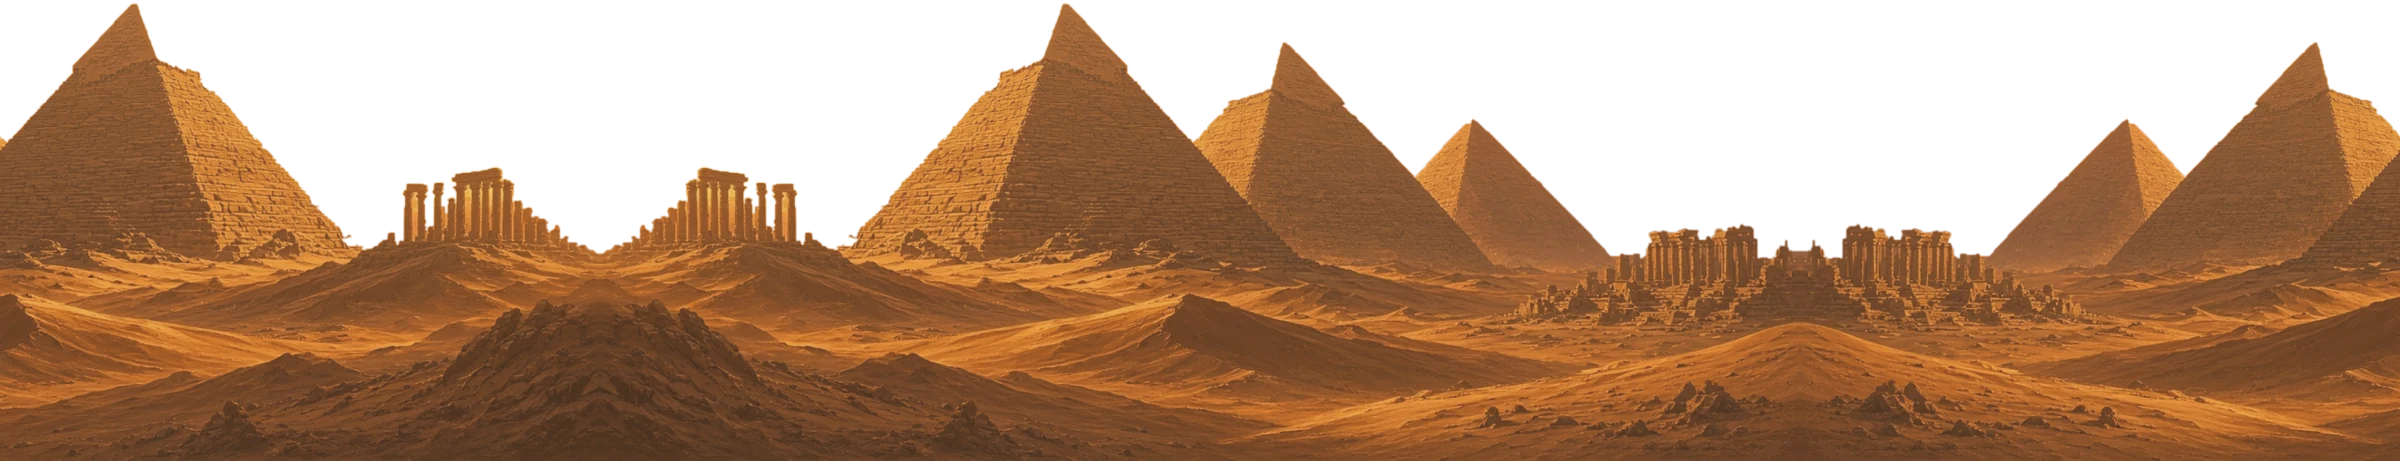
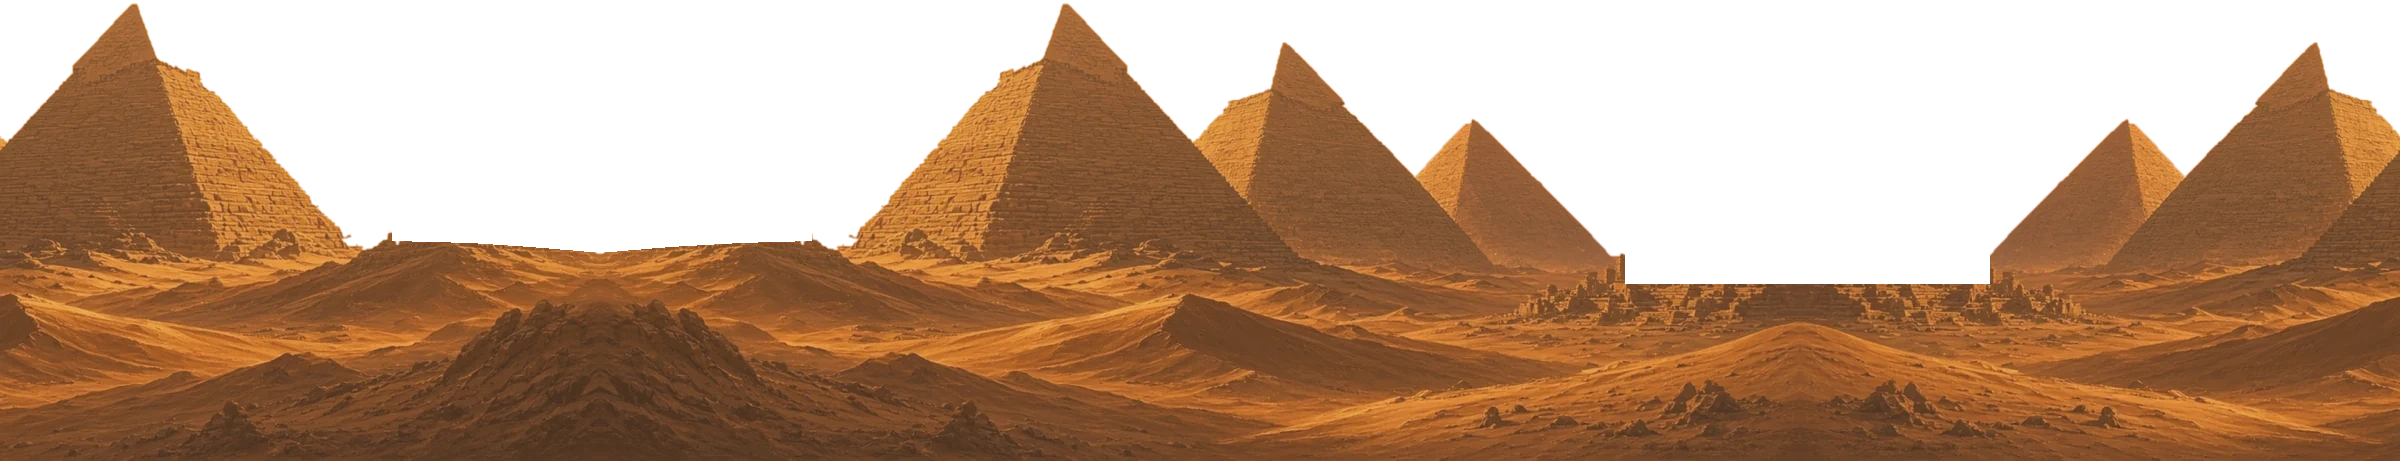
v14: solid far colonnade, caravan drift, visible gusts and heat shimmer, stronger idle life, urn depth tolerance, single version.js

Changed region(s): [[0.1562, 0.3644, 0.3438, 0.5466], [0.6562, 0.4859, 0.8438, 0.6377]]

diff --git a/index.html b/index.html
@@ -22,6 +22,7 @@
 <meta name="theme-color" content="#0d0705"><link rel="manifest" href="manifest.json"><link rel="icon" href="favicon.ico" sizes="any"><link rel="icon" type="image/png" sizes="32x32" href="icons/favicon-32.png"><link rel="apple-touch-icon" href="icons/apple-touch-icon.png"></head>
 <body>
 <canvas id="game"></canvas>
+<script src="version.js"></script>
 <script>
 (() => {
   'use strict';
@@ -894,7 +895,7 @@
   //  behind  dragonflies        count 6 (max 12), size 1, yRange [0.46,0.72]
   //  behind  footstepDust       size 1, alpha 1                 (default on: a puff per foot plant / landing)
   //  behind  impactShock        size 1                          (default on: ring + dust where a heavy blow lands)
-  //  (none)  wind               dir -1 (right to left), strength 1, gustEvery [2.5,5] s (false = no gusts; the first gust arrives ~2.4 s after a start), gustStrength 1
+  //  (none)  wind               dir -1 (right to left), strength 1, gustEvery [7,11] s after each 3.4 s gust (false = no gusts; the first gust arrives ~2.4 s after a start), gustStrength 1
   //  (none)  idleLife           breath 1, weaponCheck 1, capeWind 1   (default on: actors are never statues)
   // Layers: sky = painted sky band; far = behind the haze; mid = colonnade depth; floor = on the paving;
   // behind = play depth, behind every fighter; front = foreground-safe (the engine keeps it off fighters and the HUD).
@@ -902,7 +903,7 @@
   // =========================================================================
   const WORLD_LEN = 3600;
   const COLONNADE_AMBIENT = {
-    wind: { dir: -1, strength: 1, gustEvery: [2.5, 5] },
+    wind: { dir: -1, strength: 1, gustEvery: [7, 11] },
     sandDrift: { count: 64, fg: 10 },
     dustDevils: { every: [45, 85], first: 6 },
     heatShimmer: { horizon: true, braziers: true, strength: 1 },
@@ -933,7 +934,7 @@
       lockX: 1260,                                                  // (was 1680: every later trigger moves with zone I by the same 420, spacing unchanged)
       ambient: {                                                    // open dunes: a harder wind, more sand, dust devils, a caravan, bare pillars
         ...COLONNADE_AMBIENT,
-        wind: { dir: -1, strength: 1.5, gustEvery: [2.5, 5.5], gustStrength: 1.4 },
+        wind: { dir: -1, strength: 1.5, gustEvery: [7, 10.5], gustStrength: 1.4 },
         sandDrift: { count: 92, fg: 14 },
         dustDevils: { every: [18, 36], first: 4, size: 1.15 },
         heatShimmer: { horizon: true, braziers: true, strength: 1.3 },
@@ -956,7 +957,7 @@
       boss: true,                                                  // finale: skip LEVEL CLEAR and go to the victory screen
       ambient: {                                                    // boss arena: still air, vultures gathering, a quicker vortex, rising smoke and embers
         ...COLONNADE_AMBIENT,
-        wind: { dir: -1, strength: 0.8, gustEvery: [3, 7], gustStrength: 1.2 },
+        wind: { dir: -1, strength: 0.8, gustEvery: [7, 11], gustStrength: 1.2 },
         sandDrift: { count: 40, fg: 8 },
         dustDevils: false,
         caravans: false,
@@ -1672,7 +1673,10 @@
         for (const u of urns) {
           if (u.broken) continue;
           const dx = (u.x - hx) * player.facing;
-          if (dx >= -20 && dx <= reach && Math.abs(u.z - player.z) < 42) {
+          // v14: depth test follows what the eye sees, not the enemy rule. The urn is ~60 px tall and the blade passes ~70 px above the hero's feet,
+          // so a swing from the lane BELOW (hero nearer the camera, larger z) still crosses the pot's body up to ~84 px of depth away; from behind it is 52.
+          const dzs = player.z - u.z;
+          if (dx >= -28 && dx <= reach + 8 && dzs > -52 && dzs < 84) {
             u.broken = true; u.brokeT = worldTime;
             AudioFX.shatter();
             spawnParticles(u.x, u.z - 22, 14, '#c77c40', 190, 4.5);
@@ -1966,7 +1970,49 @@
   const SKY_PAR = 0.08;
   const SUN = { x: 250, y: 90 };
   const FAR_PAR = 0.12;
-  // far vista geometry: uniform scale (never stretched), wide enough for the whole camera range at FAR_PAR
+  // v14: the horizon ruins are NOT painted into bg_far.webp any more (the painted colonnades were pale, blurry and
+  // read as ghosts). bg_far now holds sky/pyramids/dunes only; the far colonnades are opaque pillar sprites (the same
+  // art as the mid-ground pillar) composited into ONE offscreen copy of the picture, so the heat-haze strips ripple
+  // pyramids and pillars together. Positions are in bg_far pixel coordinates (2400 x 461).
+  const FAR_RUINS = (function () {
+    const out = [], ridge = (x, a) => { for (let i = 1; i < a.length; i++) if (x <= a[i][0]) return a[i - 1][1] + (a[i][1] - a[i - 1][1]) * (x - a[i - 1][0]) / (a[i][0] - a[i - 1][0]); return a[a.length - 1][1]; };
+    const rA = [[392, 241], [470, 243], [530, 247], [602, 253]];
+    // [x, height, fraction broken off the top]; one group per ruined colonnade, mirrored about the picture's seams
+    const A = [[408, 62, 0], [426, 72, 0], [446, 88, 0], [464, 94, 0], [482, 96, 0], [500, 92, 0], [518, 84, 0], [534, 62, .30], [549, 50, .38], [563, 38, .5], [575, 28, .5]];
+    const B = [[1650, 36, .35], [1666, 50, 0], [1684, 60, 0], [1702, 66, 0], [1720, 70, 0], [1738, 66, 0], [1756, 56, .2], [1774, 66, 0], [1790, 74, 0]];
+    A.forEach(c => { out.push({ x: c[0], y: ridge(c[0], rA), h: c[1], cut: c[2] }); const x2 = 1200 - c[0]; out.push({ x: x2, y: ridge(1200 - x2, rA), h: c[1], cut: c[2] }); });
+    B.forEach(c => { out.push({ x: c[0], y: 284, h: c[1], cut: c[2] }); out.push({ x: 3600 - c[0], y: 284, h: c[1], cut: c[2] }); });
+    return out;
+  })();
+  // stone beams over the intact runs: [x0, x1, y of the beam top]; the second of each pair is the mirror image
+  const FAR_LINTELS = [[459, 505, 243 - 95 - 3], [1200 - 505, 1200 - 459, 243 - 95 - 3], [1697, 1743, 284 - 69 - 3], [3600 - 1743, 3600 - 1697, 284 - 69 - 3]];
+  let farComposite = null;
+  function ensureFarComposite() {
+    if (farComposite || !IMG.pyramids || !IMG.pyramids.naturalWidth || !IMG.pillar || !IMG.pillar.naturalWidth) return;
+    const src = IMG.pyramids, iw = src.naturalWidth, ih = src.naturalHeight;
+    const cv = makeCanvas(iw, ih), c = cv.getContext('2d');
+    c.drawImage(src, 0, 0);
+    c.imageSmoothingEnabled = true; c.imageSmoothingQuality = 'high';
+    const pil = IMG.pillar, sw = 56, sh = Math.round(sw * pil.naturalHeight / pil.naturalWidth);   // two-step downscale keeps the small columns crisp
+    const small = makeCanvas(sw, sh); const sc2 = small.getContext('2d'); sc2.imageSmoothingEnabled = true; sc2.imageSmoothingQuality = 'high'; sc2.drawImage(pil, 0, 0, sw, sh);
+    // read as solid shaded stone against the bright sky: darker body + cylindrical shading (shadow side left, warm lit edge right)
+    sc2.globalCompositeOperation = 'source-atop';
+    sc2.fillStyle = 'rgba(48,20,6,0.52)'; sc2.fillRect(0, 0, sw, sh);
+    const sg = sc2.createLinearGradient(0, 0, sw, 0); sg.addColorStop(0, 'rgba(20,6,0,0.70)'); sg.addColorStop(0.55, 'rgba(24,8,2,0.08)'); sg.addColorStop(1, 'rgba(255,196,120,0.18)');
+    sc2.fillStyle = sg; sc2.fillRect(0, 0, sw, sh);
+    sc2.globalCompositeOperation = 'source-over';
+    const ruins = FAR_RUINS.slice().sort((a, b) => a.y - b.y);
+    const col = r => { const w = r.h * 0.23, cutPx = r.cut * sh; c.drawImage(small, 0, cutPx, sw, sh - cutPx, Math.round(r.x - w / 2), r.y - r.h * (1 - r.cut), w, r.h * (1 - r.cut)); };
+    // contact shadows first, then columns, then beams
+    c.fillStyle = 'rgba(40,18,6,0.35)'; ruins.forEach(r => c.fillRect(Math.round(r.x - r.h * 0.17), r.y - 1, r.h * 0.34, 3));
+    ruins.forEach(col);
+    FAR_LINTELS.forEach(L => {
+      const g = c.createLinearGradient(0, L[2], 0, L[2] + 6); g.addColorStop(0, '#8a5326'); g.addColorStop(0.5, '#5e3516'); g.addColorStop(1, '#35200c');
+      c.fillStyle = g; c.fillRect(L[0], L[2], L[1] - L[0], 6);
+    });
+    farComposite = cv; cv.naturalWidth = iw; cv.naturalHeight = ih;
+    IMG.pyramids = cv;
+  }
   function farGeom() {
     const im = IMG.pyramids, asp = im.naturalWidth / im.naturalHeight;
     const camMax = Math.max(0, WORLD_LEN - W), travel = FAR_PAR * camMax;
@@ -1977,6 +2023,7 @@
   const HORIZ = { amp: 0, y0: 0, hb: 44 };   // horizon heat-haze state, set by the heatShimmer module each frame
   function drawBackground() {
     const skyH = LANE_TOP + 12;
+    ensureFarComposite();
 
     // 1. Painted fire-vortex sky: ONE cover-fit image (never tiled), parallax 0.08. It is scaled so that the
     //    whole camera range (0 .. WORLD_LEN-W) still lands inside the picture, so no edge or repeat can show.
@@ -2024,7 +2071,7 @@
         for (let r = 0; r < HBd; r += spd) {
           const h = Math.min(spd, HBd - r), y = (hyd + r) / fy, k = r / HBd;
           if (y + h / fy <= fg.y || y >= fg.y + fg.h) continue;
-          const dx = (Math.sin(t * 2.0 + y * 0.30) * 0.7 + Math.sin(t * 3.6 - y * 0.55) * 0.3) * (0.30 + 0.70 * k) * 2.2 * HORIZ.amp;
+          const dx = (Math.sin(t * 5.2 + y * 0.26) * 0.7 + Math.sin(t * 8.4 - y * 0.47) * 0.3) * (0.45 + 0.55 * k) * 6.0 * HORIZ.amp;   // v14: ~+-6 px at 1x, 5 Hz-ish: reads as heat on a phone
           const sy = (y - fg.y) / fg.h * ih, sh = (h / fy) / fg.h * ih;
           ctx.drawImage(IMG.pyramids, 0, sy, iw, sh, fg.x + Math.round(dx * fx) / fx, y, fg.w, h / fy);
         }
@@ -2180,7 +2227,7 @@
     g.addColorStop(0, 'rgba(255, 190, 120, 0)'); g.addColorStop(1, 'rgba(255, 175, 100, 0.26)');
     GRAD.haze2 = g;
     g = ctx.createLinearGradient(0, LANE_TOP - 70, 0, LANE_TOP + 32);
-    g.addColorStop(0, 'rgba(255, 165, 65, 0)'); g.addColorStop(0.55, 'rgba(255, 140, 45, 0.20)'); g.addColorStop(1, 'rgba(255, 110, 30, 0)');
+    g.addColorStop(0, 'rgba(255, 165, 65, 0)'); g.addColorStop(0.55, 'rgba(255, 140, 45, 0.13)'); g.addColorStop(1, 'rgba(255, 110, 30, 0)');
     GRAD.horizon = g;
     g = ctx.createLinearGradient(0, LANE_TOP + 10, 0, LANE_TOP + 100);
     g.addColorStop(0, 'rgba(255, 196, 130, 0.12)'); g.addColorStop(1, 'rgba(255, 196, 130, 0)');
@@ -2541,12 +2588,12 @@
 
   // ---------------------------------------------------------------- AIR
   registerAmbient('wind', {                      // field: wind speed + gusts every [a,b] seconds; read by drift, cloth, smoke, cape
-    order: 0, defaults: { dir: -1, strength: 1, gustEvery: [2.5, 5], gustStrength: 1 },
-    start(inst) { inst.d = inst.d || {}; const d = inst.d; d.gust = 0; d.gustT = 2.4; d.age = 0; d.on = false; },
+    order: 0, defaults: { dir: -1, strength: 1, gustEvery: [7, 11], gustStrength: 1 },
+    start(inst) { inst.d = inst.d || {}; const d = inst.d; d.gust = 0; d.gustT = 4; d.age = 0; d.on = false; d.S = []; d.n = 0; },
     stop() { ENV.ws = 0; ENV.gust = 0; },
     update(inst, dt) {
       const d = inst.d, p = inst.p;
-      if (!d.on) { if (Array.isArray(p.gustEvery) && (d.gustT -= dt) <= 0) { d.on = true; d.age = 0; } }
+      if (!d.on) { if (Array.isArray(p.gustEvery) && (d.gustT -= dt) <= 0) { d.on = true; d.age = 0; d.n++; windGustBurst(d); } }
       else {
         d.age += dt; const u = d.age / 3.4;                          // 3.4 s swell
         d.gust = u >= 1 ? 0 : Math.pow(Math.sin(Math.PI * u), 2);
@@ -2554,8 +2601,42 @@
       }
       ENV.dir = p.dir; ENV.gust = d.gust * p.gustStrength * inst.k;
       ENV.ws = p.dir * (38 + 230 * d.gust * p.gustStrength) * p.strength * inst.k;
+      ENV.gustN = d.n;
+    },
+    // gustEvery is the pause AFTER a 3.4 s gust, so onset-to-onset = 3.4 + [7,11] = 10.4-14.4 s.
+    // v14: a gust is a VISIBLE event. The old streaks were sand-coloured on sand-coloured floor and moved with the breeze, so a gust
+    // read as nothing. Now every gust (on a 10-14 s timer, not by chance) launches a burst of long, fast streaks - bright dust and dark
+    // grit, so they show on both sky and floor - across the whole screen in the wind direction, with a faint dust veil under them.
+    draw: {
+      front(inst) {
+        const d = inst.d, p = inst.p; if (!d.on || !d.S.length) return;
+        const g = ENV.gust, a0 = d.age, dir = p.dir < 0 ? -1 : 1, K = inst.k;
+        ctx.save();
+        ctx.globalAlpha = Math.min(0.22, 0.20 * g) * K;
+        const vg = ctx.createLinearGradient(0, LANE_TOP - 90, 0, LANE_TOP + 50); vg.addColorStop(0, 'rgba(232,172,104,0)'); vg.addColorStop(1, 'rgb(232,172,104)');
+        ctx.fillStyle = vg; ctx.fillRect(0, LANE_TOP - 90, W, 140);
+        ctx.fillStyle = 'rgb(232, 172, 104)'; ctx.fillRect(0, LANE_TOP + 50, W, H - LANE_TOP - 50);                                       // dust veil
+        for (let i = 0; i < d.S.length; i++) {
+          const q = d.S[i], u = a0 - q.t0; if (u < 0) continue;
+          const x = dir < 0 ? W + 80 - q.sp * u : -80 + q.sp * u; if (x < -q.len - 90 || x > W + q.len + 90) continue;
+          const y = q.y + Math.sin(a0 * 2.4 + q.ph) * 3, e = Math.min(1, Math.max(0, g * 2.2));
+          const xs = dir < 0 ? x : x - q.len;
+          ctx.globalAlpha = q.a * e * K; ctx.fillStyle = q.dark ? 'rgb(96, 52, 22)' : 'rgb(255, 236, 196)';
+          ctx.fillRect(xs, y, q.len, q.th);
+          if (!q.dark) { ctx.globalAlpha = Math.min(1, q.a * 1.35) * e * K; ctx.fillRect(dir < 0 ? xs : xs + q.len * 0.55, y, q.len * 0.45, q.th); }
+        }
+        ctx.restore();
+      }
     }
   });
+  function windGustBurst(d) {
+    const n = Math.round(78 * (QUALITY.particleMul || 1)); d.S.length = 0;
+    const y0 = LANE_TOP - 64, y1 = H - 6;
+    for (let i = 0; i < n; i++) {
+      const dark = Math.random() < 0.34, ph = Math.random();
+      d.S.push({ t0: Math.random() * 2.1, y: y0 + Math.random() * (y1 - y0), len: 70 + Math.random() * 190, sp: 1050 + Math.random() * 850, th: 1.3 + Math.random() * 2.1, a: dark ? 0.30 + 0.25 * ph : 0.55 + 0.35 * ph, dark, ph: Math.random() * 6.28 });
+    }
+  }
 
   registerAmbient('sandDrift', {                 // wind-blown sand streaks (behind fighters) + a few faint foreground streaks
     order: 20, defaults: { count: 64, fg: 10, alpha: 1 },
@@ -2663,10 +2744,10 @@
           const sx = slot * 60 * fx; slot++;
           c.globalCompositeOperation = 'copy';
           c.drawImage(canvas, Math.round((bx - BW / 2) * fx), Math.round(top * fy), Math.round(BW * fx), Math.round(BB * fy), sx, sy, Math.round(BW * fx), Math.round(BB * fy));
-          for (let y = top; y < bot; y += 8) {
+          for (let y = top; y < bot; y += 4) {      // v14: 4 px strips with a slow phase gradient: adjacent strips differ by < 1 px, so the pillar behind a flame is no longer cut into bands
             const k = (y - top) / (bot - top), wv = 14 + 14 * k;
-            const dx = Math.sin(t * 6.2 - y * 0.24 + i * 1.9) * 2.8 * (0.35 + 0.65 * k) * amp;
-            ctx.drawImage(S, sx + (BW / 2 - wv) * fx, sy + (y - top) * fy, 2 * wv * fx, 8 * fy, bx - wv + dx, y, 2 * wv, 8);
+            const dx = Math.sin(t * 6.2 - y * 0.10 + i * 1.9) * 2.3 * (0.35 + 0.65 * k) * amp;
+            ctx.drawImage(S, sx + (BW / 2 - wv) * fx, sy + (y - top) * fy, 2 * wv * fx, 4 * fy, bx - wv + dx, y, 2 * wv, 4);
           }
         }
       }
@@ -2853,16 +2934,18 @@
     ctx.beginPath(); ctx.moveTo(x + dir * 0.35 * s, y); ctx.lineTo(x + dir * 0.28 * s, y - 2.0 * s); ctx.stroke();   // staff
   }
   registerAmbient('caravans', {                  // a camel caravan and a lone walker crossing the horizon, never interacting
-    order: 20, defaults: { speed: 1, lone: true, start: 800, loneStart: 760 },
-    start(inst) { const d = inst.d || (inst.d = {}); d.s = worldTime * 6 * inst.p.speed; d.s2 = worldTime * 4.5 * inst.p.speed; },
-    update(inst, dt) { const d = inst.d, sp = inst.p.speed; d.s += 6 * sp * dt; d.s2 += 4.5 * sp * dt; },
+    order: 20, defaults: { speed: 1, lone: true, start: 800, loneStart: 760, drift: 15 },
+    // v14: the crossing ran at 6 px/s (a camel body-length in 4 s): it moved, but too slowly to read as movement on a phone.
+    // drift is now the caravan's speed in logical px/s (right -> left); the lone walker goes the other way at 0.75 of it.
+    start(inst) { const d = inst.d || (inst.d = {}); d.s = worldTime * inst.p.drift * inst.p.speed; d.s2 = worldTime * inst.p.drift * 0.75 * inst.p.speed; },
+    update(inst, dt) { const d = inst.d, sp = inst.p.speed, dr = inst.p.drift; d.s += dr * sp * dt; d.s2 += dr * 0.75 * sp * dt; },
     draw: {
       far(inst) {
         const d = inst.d, p = inst.p, t = worldTime, hy = LANE_TOP - 13, s = Math.max(7, H * 0.019);
         ctx.lineCap = 'round'; ctx.fillStyle = ctx.strokeStyle = 'rgb(84, 38, 18)'; ctx.globalAlpha = 0.88 * inst.k;
-        const cyc = W + 1100, cx = ((p.start - d.s - camX * FAR_PAR) % cyc + cyc) % cyc - 300;
+        const cyc = W + 520, cx = ((p.start - d.s - camX * FAR_PAR) % cyc + cyc) % cyc - 300;
         if (cx > -8 * s && cx < W + 4 * s) {
-          const ph = t * 2.6 * p.speed;
+          const ph = t * 3.4 * p.speed;
           drawCamel(cx, hy, s, ph, true);
           drawCamel(cx + 2.5 * s, hy, s * 0.95, ph + 1.3, false);
           drawCamel(cx + 5.0 * s, hy, s * 0.9, ph + 2.4, true);
@@ -2907,7 +2990,7 @@
     },
     draw: {
       mid(inst) {
-        const p = inst.p, T = AFX.banners.tex, N = 12, t = worldTime, g = ENV.gust, ev = Math.max(1, Math.round(p.every)), ph = 262;
+        const p = inst.p, T = AFX.banners.tex, N = 22, t = worldTime, g = ENV.gust, ev = Math.max(1, Math.round(p.every)), ph = 262;
         ctx.globalAlpha = inst.k;
         for (let n = 0; n < PILL.n; n++) {
           if (((PILL.i[n] % ev) + ev) % ev !== p.phase) continue;
@@ -2916,9 +2999,13 @@
             const f0 = j / N, f = (j + 0.5) / N;
             const sway = p.sway * Math.pow(f, 1.2) * (Math.sin(t * 2.6 + f * 3.8 + seed * 1.7) * (4.2 + 2.6 * g)
                        + Math.sin(t * 5.6 + f * 7 + seed) * 1.4 * (0.5 + g) + ENV.dir * (2.5 + 5 * g));
-            const sx0 = cx - w / 2 + sway, sy0 = top + f0 * h, sh0 = h / N + 0.7;
-            ctx.drawImage(T, 0, f0 * T.height, T.width, T.height / N + 1, sx0, sy0, w, sh0);
-            const fold = Math.sin(t * 3.4 - f * 8.5 + seed * 2.3) * (0.7 + 0.3 * g);   // cloth fold travelling down the banner
+            // v14: a real travelling wave down the cloth (about 1.4 waves over its length, +-4 px at rest, more in a gust), anchored at the rod,
+            // with the cloth narrowing a little on the crest of each fold like a flag
+            const wave = Math.sin(t * 3.1 - f * 8.8 + seed * 2.1), wv = (0.3 + 0.7 * Math.pow(f, 0.7)) * (4.2 + 3.2 * g) * wave * p.sway;
+            const ww = w * (1 - 0.05 * Math.abs(wave) * f);
+            const sx0 = cx - ww / 2 + sway + wv, sy0 = top + f0 * h, sh0 = h / N + 0.7;
+            ctx.drawImage(T, 0, f0 * T.height, T.width, T.height / N + 1, sx0, sy0, ww, sh0);
+            const fold = wave * (0.75 + 0.25 * g);   // cloth fold travelling down the banner
             ctx.fillStyle = fold > 0 ? 'rgb(255, 196, 126)' : 'rgb(24, 6, 2)';
             ctx.globalAlpha = Math.abs(fold) * (fold > 0 ? 0.20 : 0.30) * inst.k; ctx.fillRect(sx0, sy0, w, sh0);
             ctx.globalAlpha = inst.k;
@@ -3329,21 +3416,21 @@
     const t = worldTime + seed * 3.7, K = IDLE_FX.k;
     const s = Math.sin(t * 1.14 + seed);                          // weight shift, ~5.5 s
     const bs = Math.sin(t * 2.1);                                  // breathing, ~3 s per breath
-    let br = 0.034 * bs * K, rot = 0.022 * s * K;
+    let br = 0.078 * bs * K, rot = 0.032 * s * K;      // v14: breathing 0.034 -> 0.078 (chest rises ~4 px), sway 0.022 -> 0.032
     const u = (t + seed * 5.3) % 8.5;                              // weapon check every 8.5 s
     if (u < 0.9) { const e = Math.sin(Math.PI * u / 0.9) * IDLE_FX.check; rot -= 0.07 * e; br += 0.014 * e; }
-    IDLE_O.br = br; IDLE_O.rot = rot; IDLE_O.hx = 2.2 * s * K; IDLE_O.dy = -1.6 * bs * K; IDLE_O.cape = isMz && IDLE_FX.cape > 0.004; IDLE_O.cs = IDLE_FX.cape; IDLE_O.wd = facing >= 0 ? 1 : -1;
+    IDLE_O.br = br; IDLE_O.rot = rot; IDLE_O.hx = 3.2 * s * K; IDLE_O.dy = -2.8 * bs * K; IDLE_O.cape = isMz && IDLE_FX.cape > 0.004; IDLE_O.cs = IDLE_FX.cape; IDLE_O.wd = facing >= 0 ? 1 : -1;
     return IDLE_O;
   }
   const CAPE = { x1: 0.35, y0: 0.36, y1: 0.95, rows: 14 };
   function capeRows(img, sx, sy, sw, sh, dx, dy, dw, dh, I, upper) {
     const yc = 0.5, rows = CAPE.rows, rh = (CAPE.y1 - CAPE.y0) / rows, t = worldTime, g = ENV.gust;
-    const A = dw * 0.12 * I.cs;
+    const A = dw * 0.17 * I.cs;      // v14: 0.12 -> 0.17 so the cape edge visibly moves while standing
     for (let j = 0; j < rows; j++) {
       const f0 = CAPE.y0 + j * rh;
       if (upper ? f0 >= yc : f0 < yc) continue;
       const k = Math.pow((f0 + rh * 0.5 - CAPE.y0) / (CAPE.y1 - CAPE.y0), 1.4);
-      const d = A * k * (0.55 * Math.sin(t * 1.9 - f0 * 9) + 0.25 * Math.sin(t * 3.4 - f0 * 15) + I.wd * (0.45 + 0.9 * g));
+      const d = A * k * (0.62 * Math.sin(t * 2.5 - f0 * 9) + 0.30 * Math.sin(t * 4.2 - f0 * 15) + I.wd * (0.45 + 0.9 * g));
       ctx.drawImage(img, sx, sy + f0 * sh, sw * CAPE.x1, sh * rh + 1, dx - d, dy + f0 * dh, dw * CAPE.x1 + d, dh * rh + 0.6);
     }
   }
@@ -3353,7 +3440,7 @@
     ctx.drawImage(base, sx, sy + ys, sw, sh - ys, dx, dy + yd, dw, dh - yd);      // planted legs
     if (cape) capeRows(img, sx, sy, sw, sh, dx, dy, dw, dh, I, false);
     ctx.save();
-    ctx.translate(I.hx, dy + yd + I.dy); ctx.rotate(I.rot); ctx.scale(1, 1 + I.br); ctx.translate(0, -(dy + yd));
+    ctx.translate(I.hx, dy + yd + I.dy); ctx.rotate(I.rot); ctx.scale(1 + 0.4 * I.br, 1 + I.br); ctx.translate(0, -(dy + yd));
     ctx.drawImage(base, sx, sy, sw, ys + 4 * sh / dh, dx, dy, dw, yd + 4);          // torso, pivot at the waist (4px overlap hides the seam while it breathes)
     if (cape) capeRows(img, sx, sy, sw, sh, dx, dy, dw, dh, I, true);
     ctx.restore();
@@ -4423,6 +4510,9 @@
       ctx.fillStyle = '#e8c99a'; ctx.font = '13px sans-serif';
       ctx.fillText('KB: WASD Move | J Atk | K Heavy | Space Jump | L Dash | Q Swap | U Fury', W * 0.5, H * 0.85);
       ctx.fillText('XBOX: Stick Move | X Atk | Y Heavy | A Jump | B Dash | LB/RB Swap | LT/RT Fury', W * 0.5, H * 0.90);
+      // build label: the ONE version constant (version.js), the same one sw.js builds its cache name from
+      ctx.fillStyle = 'rgba(232, 201, 154, 0.7)'; ctx.font = '12px sans-serif';
+      ctx.fillText('BETA BUILD v' + (typeof EMPIRE_VERSION === 'string' ? EMPIRE_VERSION : '?'), W * 0.5, H * 0.955);
     } else {
       // Victory plaque (the finale skips LEVEL CLEAR so this is the only end card)
       const ready = SCREEN.lock <= 0;

diff --git a/sw.js b/sw.js
@@ -1,4 +1,5 @@
-var C='empire-v13',F=['./', 'index.html', 'icons/icon-192.png', 'icons/icon-512.png', 'icons/icon-maskable-192.png', 'icons/icon-maskable-512.png', 'icons/apple-touch-icon.png', 'icons/favicon-32.png', 'favicon.ico', 'manifest.json', 'assets/bg_ground.jpg', 'assets/fg_props.webp', 'assets/pillar.webp', 'assets/brazier.webp', 'assets/bg_far.webp', 'assets/bg_sky.jpg', 'assets/boss.png', 'assets/boss_lo.webp', 'assets/marauder.png', 'assets/marauder_lo.webp', 'assets/mzcookie_attack.png', 'assets/mzcookie_attack_lo.webp', 'assets/mzcookie_idle.png', 'assets/mzcookie_idle_lo.webp', 'assets/portrait_mzcookie.jpg', 'assets/portrait_thebeard.jpg', 'assets/shield.png', 'assets/shield_lo.webp', 'assets/sprites.json', 'assets/thebeard_attack.png', 'assets/thebeard_attack_lo.webp', 'assets/thebeard_idle.png', 'assets/thebeard_idle_lo.webp', 'assets/urn.png', 'assets/prop_urnbroken.webp', 'assets/prop_meat.webp', 'assets/prop_chalice.webp', 'assets/urn_lo.webp', 'assets/walk_boss.webp', 'assets/walk_boss_lo.webp', 'assets/walk_marauder.webp', 'assets/walk_marauder_lo.webp', 'assets/walk_mzcookie.webp', 'assets/walk_mzcookie_lo.webp', 'assets/walk_shield.webp', 'assets/walk_shield_lo.webp', 'assets/walk_thebeard.webp', 'assets/walk_thebeard_lo.webp', 'assets/walk_zealot.webp', 'assets/walk_zealot_lo.webp', 'assets/zealot.png', 'assets/zealot_lo.webp'];
+importScripts('version.js');
+var C='empire-v'+EMPIRE_VERSION,F=['./', 'version.js', 'index.html', 'icons/icon-192.png', 'icons/icon-512.png', 'icons/icon-maskable-192.png', 'icons/icon-maskable-512.png', 'icons/apple-touch-icon.png', 'icons/favicon-32.png', 'favicon.ico', 'manifest.json', 'assets/bg_ground.jpg', 'assets/fg_props.webp', 'assets/pillar.webp', 'assets/brazier.webp', 'assets/bg_far.webp', 'assets/bg_sky.jpg', 'assets/boss.png', 'assets/boss_lo.webp', 'assets/marauder.png', 'assets/marauder_lo.webp', 'assets/mzcookie_attack.png', 'assets/mzcookie_attack_lo.webp', 'assets/mzcookie_idle.png', 'assets/mzcookie_idle_lo.webp', 'assets/portrait_mzcookie.jpg', 'assets/portrait_thebeard.jpg', 'assets/shield.png', 'assets/shield_lo.webp', 'assets/sprites.json', 'assets/thebeard_attack.png', 'assets/thebeard_attack_lo.webp', 'assets/thebeard_idle.png', 'assets/thebeard_idle_lo.webp', 'assets/urn.png', 'assets/prop_urnbroken.webp', 'assets/prop_meat.webp', 'assets/prop_chalice.webp', 'assets/urn_lo.webp', 'assets/walk_boss.webp', 'assets/walk_boss_lo.webp', 'assets/walk_marauder.webp', 'assets/walk_marauder_lo.webp', 'assets/walk_mzcookie.webp', 'assets/walk_mzcookie_lo.webp', 'assets/walk_shield.webp', 'assets/walk_shield_lo.webp', 'assets/walk_thebeard.webp', 'assets/walk_thebeard_lo.webp', 'assets/walk_zealot.webp', 'assets/walk_zealot_lo.webp', 'assets/zealot.png', 'assets/zealot_lo.webp'];
 self.addEventListener('install',function(e){self.skipWaiting();e.waitUntil(caches.open(C).then(function(c){return c.addAll(F)}))});
 self.addEventListener('activate',function(e){e.waitUntil(caches.keys().then(function(ks){return Promise.all(ks.filter(function(k){return k!==C}).map(function(k){return caches.delete(k)}))}).then(function(){return self.clients.claim()}))});
 self.addEventListener('fetch',function(e){if(e.request.method!=='GET')return;e.respondWith(fetch(e.request,{cache:'no-cache'}).then(function(r){var cp=r.clone();caches.open(C).then(function(c){c.put(e.request,cp)});return r}).catch(function(){return caches.match(e.request,{ignoreSearch:true})}))});

diff --git a/version.js b/version.js
@@ -1,0 +1,3 @@
+// THE one place the build number lives. index.html loads this file (title-screen label) and sw.js importScripts() it
+// (cache name 'empire-v' + EMPIRE_VERSION), so the label and the cache can never drift. Bump only this line.
+var EMPIRE_VERSION = '14';
